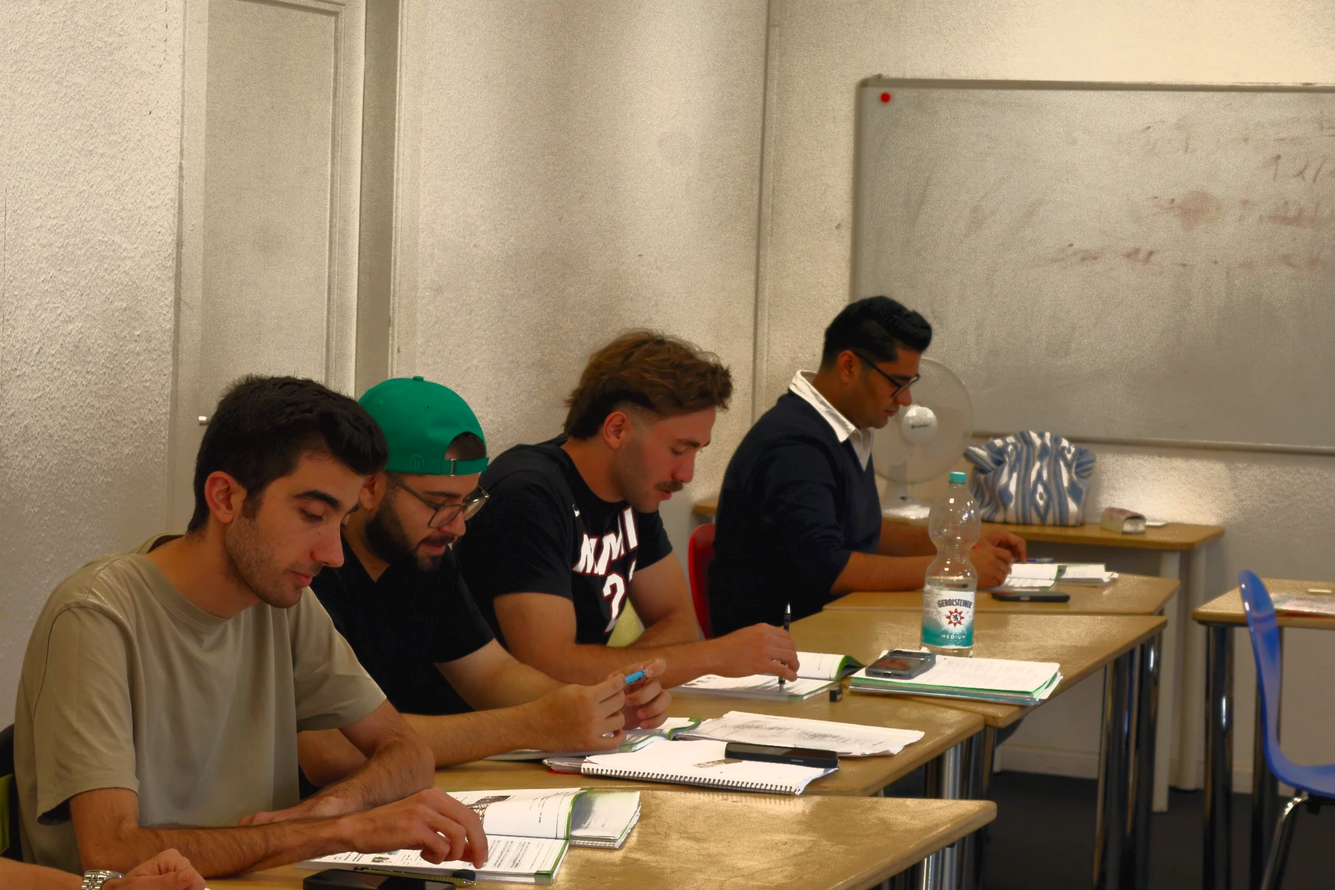
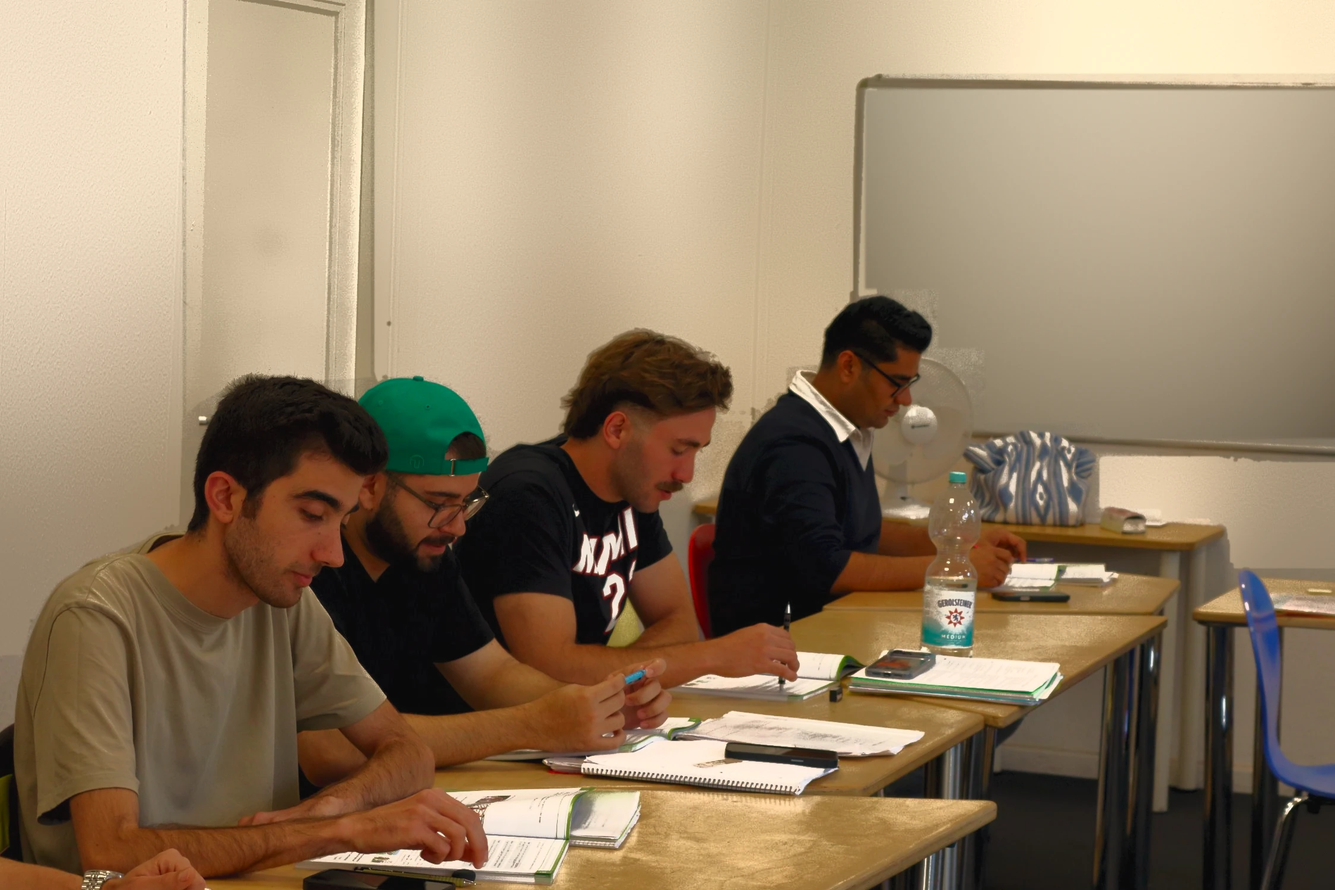
fix(media): clean the classroom behind the medical page's learners
Rahman, 2026-10-09: slot 90's photo looked dirty (stained walls, a smeared
whiteboard) — "give it proper ai touch so it looks clean and elegant". A
second, declared exception to hard rule 4: scripts/media/retouch.py cleans
the walls, door and whiteboard on fixed regions (classical image processing,
deterministic, no image model), as a `retouch` step of the slot's
build_reel.py recipe, so --verify still holds (all 47 recipes ok). The
learners are unchanged: no person-coloured pixel moves.

diff --git a/src/config/content/photo-numbers.ts b/src/config/content/photo-numbers.ts
@@ -263,7 +263,7 @@ export const photoSlots: PhotoSlot[] = [
   { n: 87, src: '/media/casa/course-company-writing.webp', subject: 'Face-free hand and pen detail, source 024. Close crop excludes every blurred background head. Contextual image beside company/exam quotes, no speaker identity claimed. 2026-10-08.', ready: true },
   { n: 88, src: '/media/casa/course-medical-dialogue.webp', subject: 'Deutsch für Pflege und Medizin, until a clinical photograph exists (slot 37): two learners going through a text together. Pool frame 077 (IMG_0284), 4:3 crop, warm editorial grade, 2026-10-08.', ready: true },
   { n: 89, src: '/media/casa/course-medical-dialogue-hero.webp', subject: 'The medical course page hero from lg up: frame 077 as a 2.4:1 band, warm editorial grade, 2026-10-08.', ready: true },
-  { n: 90, src: '/media/casa/course-medical-writing.webp', subject: 'Four learners practising writing, source 066. 3:2 crop with whole heads, replaces source-cut frame 012. No medical cohort identity claimed. 2026-10-08.', ready: true },
+  { n: 90, src: '/media/casa/course-medical-writing.webp', subject: 'Four learners practising writing, source 066. 3:2 crop with whole heads, replaces source-cut frame 012. No medical cohort identity claimed. 2026-10-08; walls, door and whiteboard cleaned behind the learners, people untouched (Rahman, 2026-10-09; scripts/media/retouch.py).', ready: true },
   { n: 91, src: '/media/casa/course-bildungszeit-learner.webp', subject: 'Bildungszeit second photo (was the empty classroom of slot 64): a learner smiling across the table, his books in front of him. Pool frame 031 (IMG_0472), full frame, 2026-10-08.', ready: true, position: 'md:object-[50%_2%] lg:object-[50%_50%]' },
   { n: 92, src: '/media/casa/exam-c1-study.webp', subject: 'Two learners reading exam texts together, source 078. 4:3 crop with whole heads, replaces source-cut frame 023. 2026-10-08.', ready: true },
   { n: 93, src: '/media/casa/exam-c1-study-hero.webp', subject: 'Two learners reading exam texts together, source 078, wide 2.4:1 crop with both heads and papers visible. Replaces source-cut frame 023. 2026-10-08.', ready: true },

diff --git a/scripts/media/retouch.py b/scripts/media/retouch.py
@@ -1,0 +1,133 @@
+"""Background retouch for a camera photograph: the one declared exception to rule 4.
+
+CLAUDE.md hard rule 4 keeps CASA's photographs source-faithful: crop, resize,
+light and colour only. On 2026-10-09 Rahman approved one exception: the
+classroom behind the learners in slot 90 (`course-medical-writing.webp`, the
+German for Medical page) had stained walls and a smeared whiteboard. This module
+cleans exactly those surfaces and nothing else. No image model is involved; it
+is classical image processing on fixed regions, deterministic (a fixed seed), so
+`build_reel.py --verify` still proves the published file is this recipe applied
+to the original.
+
+The people are never changed. Every region is drawn by hand round them with a
+margin; a region may grow only into pixels that are wall-coloured (measured on
+this frame: lightness above 47, almost no red-green, a warm yellow), it never
+enters PROTECT (a white collar is wall-coloured too), and the blend fades
+inward, so not one pixel outside a region changes. Checked when it was made:
+outside the regions the maximum change is 0, and no hair-, skin-, cap- or
+clothes-coloured pixel changes by more than 3 levels.
+
+- Walls: the stains (the mid frequencies) are replaced by a smooth surface lifted
+  to the wall's own brighter tone (its 72nd percentile of lightness), and half of
+  the fine plaster grain is kept, so the wall reads as clean paint, not plastic.
+- The door: an edge-preserving filter, so its frame and panel lines stay crisp
+  while the marks flatten; lifted to the same tone.
+- The whiteboard: a clean surface fitted to the board's own light (a quadratic
+  in x and y, refitted without the marks), plus a little grain.
+"""
+import cv2
+import numpy as np
+
+# Slot 90's regions, in the coordinates of its 2250 × 1500 recipe output.
+MEDICAL_WRITING = {
+    'board': [(1452, 145), (2250, 145), (2250, 744), (1855, 744), (1855, 718), (1655, 718),
+              (1655, 592), (1575, 592), (1575, 492), (1452, 492)],
+    # Each wall region with how far (px) it may grow into wall-coloured pixels.
+    'walls': [
+        ([(668, 0), (1440, 0), (1440, 492), (1390, 498), (1384, 548), (1382, 594), (1318, 600), (1290, 640),
+          (1284, 688), (1248, 688), (1244, 598), (1206, 550), (1100, 538), (1000, 546), (956, 578), (946, 640),
+          (940, 722), (834, 722), (830, 688), (812, 630), (668, 622)], 40),  # between the heads
+        ([(1440, 0), (2250, 0), (2250, 126), (1440, 126)], 0),  # above the board
+        ([(0, 0), (304, 0), (304, 690), (298, 882), (245, 904), (178, 933), (118, 964), (78, 1002), (44, 1058),
+          (38, 1100), (0, 1100)], 6),  # left wall, along the first learner's shoulder
+        ([(1860, 776), (2250, 776), (2250, 950), (2070, 950), (2070, 876), (1964, 876), (1964, 850), (1860, 850)], 10),
+    ],
+    'door': [(304, 0), (668, 0), (668, 618), (600, 626), (560, 628), (450, 626), (380, 640), (330, 668), (304, 690)],
+    'protect': [[(1328, 622), (1442, 612), (1456, 752), (1388, 752), (1336, 676)]],  # the fourth learner's collar
+}
+
+
+def _mask(shape, polys):
+    m = np.zeros(shape, np.uint8)
+    for poly in polys:
+        cv2.fillPoly(m, [np.array(poly, np.int32)], 255)
+    return m
+
+
+def _feather(m, r):
+    """A blend weight that fades inward and is zero outside the region."""
+    inner = cv2.erode((m > 0).astype(np.uint8), cv2.getStructuringElement(cv2.MORPH_ELLIPSE, (6 * r + 1, 6 * r + 1)))
+    return cv2.GaussianBlur(inner.astype(np.float32), (0, 0), r) * (m > 0)
+
+
+def _masked_blur(x, m, sigma):
+    mf = (m > 0).astype(np.float32)
+    num = cv2.GaussianBlur(x * mf[..., None], (0, 0), sigma)
+    den = cv2.GaussianBlur(mf, (0, 0), sigma)[..., None]
+    return num / np.maximum(den, 1e-4)
+
+
+def clean_background(image, regions):
+    """`image`: uint8 RGB. Returns the same size, with only the declared surfaces changed."""
+    img = image.astype(np.float32) / 255.0
+    h, w = img.shape[:2]
+    lab = cv2.cvtColor(img, cv2.COLOR_RGB2LAB)
+    lightness, a, b = lab[..., 0], lab[..., 1], lab[..., 2]
+    wallish = ((lightness > 47) & (np.abs(a) < 6.5) & (b > -4) & (b < 24)).astype(np.uint8) * 255
+    protect = _mask((h, w), regions['protect'])
+
+    def grow(poly_mask, px):
+        if not px:
+            return poly_mask
+        ring = cv2.dilate(poly_mask, cv2.getStructuringElement(cv2.MORPH_ELLIPSE, (2 * px + 1, 2 * px + 1)))
+        m = cv2.bitwise_or(poly_mask, cv2.bitwise_and(ring, wallish))
+        m = cv2.bitwise_and(m, cv2.bitwise_not(protect))
+        return cv2.morphologyEx(m, cv2.MORPH_OPEN, np.ones((3, 3), np.uint8))
+
+    walls = np.zeros((h, w), np.uint8)
+    for poly, px in regions['walls']:
+        walls = cv2.bitwise_or(walls, grow(_mask((h, w), [poly]), px))
+    door = cv2.bitwise_and(grow(_mask((h, w), [regions['door']]), 14), cv2.bitwise_not(walls))
+    board = _mask((h, w), [regions['board']])
+
+    target = np.percentile(lightness[walls > 0], 72)
+
+    def lift(x, m):
+        l = cv2.cvtColor(np.clip(x, 0, 1), cv2.COLOR_RGB2LAB)[..., 0]
+        return x * (target / max(float(l[m > 0].mean()), 1e-3))
+
+    fine = img - cv2.GaussianBlur(img, (0, 0), 2.2)
+    out = img.copy()
+
+    wall = np.clip(lift(_masked_blur(img, walls, 70), walls) + 0.5 * fine, 0, 1)
+    weight = _feather(walls, 1)[..., None]
+    out = out * (1 - weight) + wall * weight
+
+    flat = img.copy()
+    for _ in range(3):
+        flat = cv2.bilateralFilter(flat, d=0, sigmaColor=0.05, sigmaSpace=18)
+    flat = np.clip(lift(flat, door) * 0.985 + 0.35 * fine, 0, 1)
+    weight = _feather(door, 1)[..., None]
+    out = out * (1 - weight) + flat * weight
+
+    rng = np.random.default_rng(90)
+    ys, xs = np.nonzero(board)
+    pick = rng.choice(len(xs), size=min(60000, len(xs)), replace=False)
+    px, py = xs[pick] / w, ys[pick] / h
+    terms = np.stack([np.ones_like(px), px, py, px * px, px * py, py * py], 1)
+    gx, gy = np.meshgrid(np.arange(w, dtype=np.float32) / w, np.arange(h, dtype=np.float32) / h)
+    grid = np.stack([np.ones_like(gx), gx, gy, gx * gx, gx * gy, gy * gy], -1)
+    surface = np.zeros_like(img)
+    for c in range(3):
+        v = img[ys[pick], xs[pick], c]
+        keep = np.ones_like(v, bool)
+        for _ in range(4):  # refit without the marks, which sit darker than the board
+            coef, *_ = np.linalg.lstsq(terms[keep], v[keep], rcond=None)
+            residual = v - terms @ coef
+            keep = residual > -1.5 * residual[keep].std()
+        surface[..., c] = grid @ coef
+    surface = np.clip(surface + rng.normal(0, 0.006, surface.shape).astype(np.float32), 0, 1)
+    weight = _feather(board, 2)[..., None]
+    out = out * (1 - weight) + surface * weight
+
+    return (np.clip(out, 0, 1) * 255 + 0.5).astype(np.uint8)

diff --git a/scripts/media/build_reel.py b/scripts/media/build_reel.py
@@ -3,7 +3,9 @@
 Every slide is a CROP of a real photograph plus global light and colour
 correction: white balance, a tone curve on lightness, and a chroma factor.
 Nothing is generated, retouched, moved or removed, which is CLAUDE.md hard
-rule 4. A slide that needs more width than its photograph has gets a different
+rule 4. One declared exception (Rahman, 2026-10-09): slot 90's recipe carries a
+`retouch` step that cleans the classroom's walls, door and whiteboard behind
+the learners, on fixed regions, never the people (scripts/media/retouch.py). A slide that needs more width than its photograph has gets a different
 photograph, not invented surroundings.
 
     python3 scripts/media/build_reel.py            # write public/media/casa/reel-*.webp
@@ -41,6 +43,8 @@ from pathlib import Path
 import cv2
 import numpy as np
 from PIL import Image, ImageOps
+
+from retouch import MEDICAL_WRITING, clean_background
 
 REPO = Path(__file__).resolve().parents[2]
 POOL = Path.home() / 'Archive/CASA/website-cleanup-2026-09-16/editorial-2026'
@@ -434,11 +438,15 @@ SLIDES = [
         'tone': EDITORIAL_TONE, 'chroma': EDITORIAL_CHROMA, 'wb': warm((1.01, 1.0, 1.0)),
     },
     {
-        # Slot 90: writing practice, replacing source-cut frame 012.
+        # Slot 90: writing practice, replacing source-cut frame 012. Its stained
+        # walls, door and smeared whiteboard are cleaned (Rahman, 2026-10-09:
+        # "give it proper ai touch so it looks clean and elegant"); the
+        # learners are untouched. The one retouch in this file, see retouch.py.
         'out': 'course-medical-writing.webp',
         'source': POOL / '066_IMG_0265.JPG',
         'box': (0, 200, 2250, 1500),
         'tone': EDITORIAL_TONE, 'chroma': EDITORIAL_CHROMA, 'wb': warm((1.02, 1.0, 0.985)),
+        'retouch': MEDICAL_WRITING,
     },
     {
         # Slot 91, Bildungszeit's second photo (was the empty classroom): a
@@ -506,6 +514,9 @@ def render(slide):
         if x0 < 0 or y0 < 0 or x0 + bw > w or y0 + bh > h:
             raise SystemExit(f"{slide['out']}: box {slide['box']} does not fit {w}x{h}")
         out = correct(rgb[y0:y0 + bh, x0:x0 + bw], slide)
+        # The one declared retouch (retouch.py): the background only, deterministic, so --verify holds.
+        if 'retouch' in slide:
+            out = clean_background(out, slide['retouch'])
         # 'max_width' only ever scales DOWN (the 5712px iPhone originals).
         limit = slide.get('max_width')
         if limit and out.shape[1] > limit:

diff --git a/CLAUDE.md b/CLAUDE.md
@@ -310,6 +310,12 @@ pattern already covers the case. If a fact is not verifiable in the repo, mark i
    **One exception (Rahman, 2026-10-08):** the host-family rooms (slots 27, 72–77, 81)
    will be AI-generated illustrations made from real host-family photos, rooms only
    and never people. `docs/HOST_FAMILY_IMAGES.md` has the brief.
+   **Second exception (Rahman, 2026-10-09):** slot 90, the German for Medical
+   classroom photo (`course-medical-writing.webp`), has its stained walls, door and
+   smeared whiteboard cleaned — a declared `retouch` step in its `build_reel.py` recipe
+   (`scripts/media/retouch.py`, fixed regions, classical image processing, no image
+   model). The learners are unchanged: no person-coloured pixel moves, checked when
+   it was made. Any further retouch needs Rahman's explicit approval, like this one.
 5. **Accommodation photos are contextual, not availability claims.**
 6. **Placement test content and results.** All 163 placement items are
    `PILOT_UNREVIEWED` and need two qualified DaF reviewers before live use. Never

diff --git a/docs/MEDIA_LIBRARY.md b/docs/MEDIA_LIBRARY.md
@@ -155,7 +155,10 @@ phone captures confirm that the building, entrance and signs remain visible.
 - Source-faithful edits only: crop, resize, light exposure and colour correction.
   No generative people/building editing — no expansion, relighting, retouching or
   "improvement" by an image model. The explicit 2026-10-08 exception is labelled
-  host-room illustrations only, documented in HOST_FAMILY_IMAGES.md. A frame that needs more room than the photograph
+  host-room illustrations only, documented in HOST_FAMILY_IMAGES.md. The second,
+  2026-10-09: slot 90's walls, door and whiteboard are cleaned behind the learners
+  (`scripts/media/retouch.py`, a declared step of its recipe, so `--verify` holds);
+  the people are untouched. A frame that needs more room than the photograph
   has gets a different photograph. (The 21 September exception is withdrawn; see below.)
 - Art-direct images for each screen size, not just their container: preserve subjects,
   faces, architecture and important signs; check the full motion cycle. Use separate
